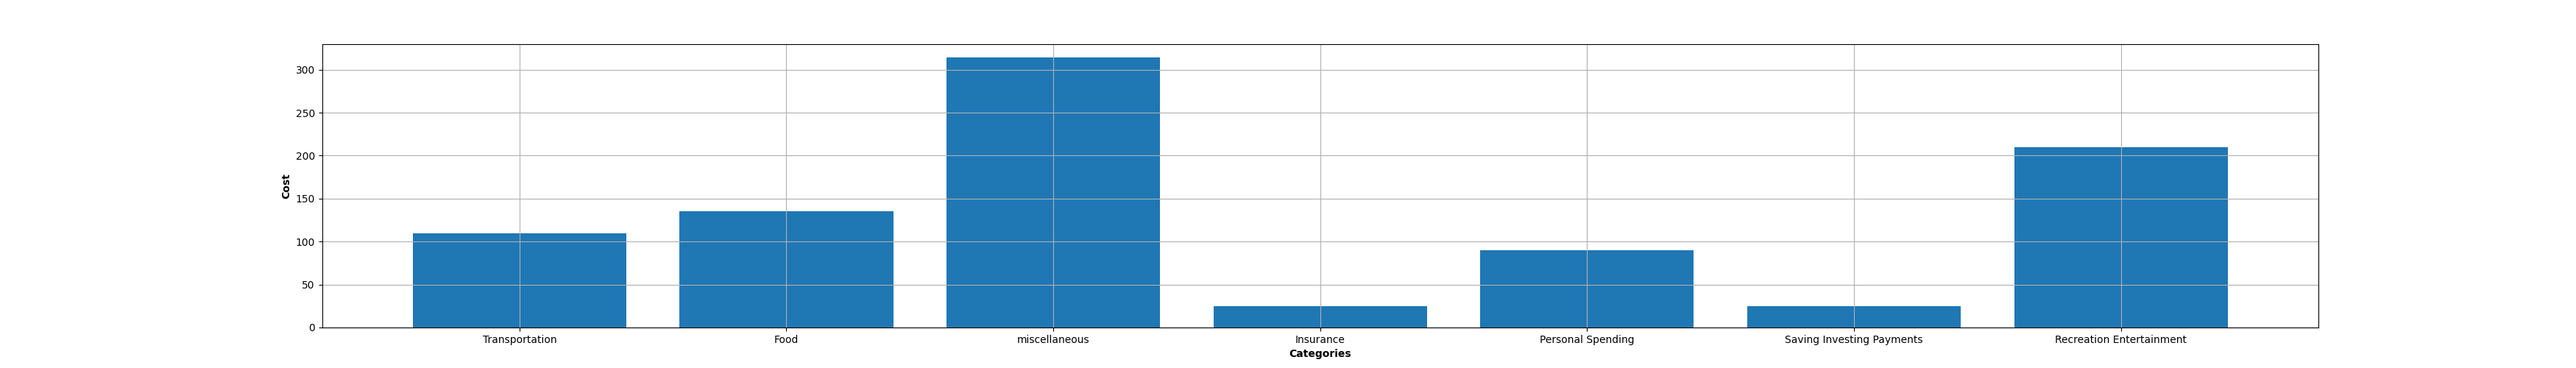
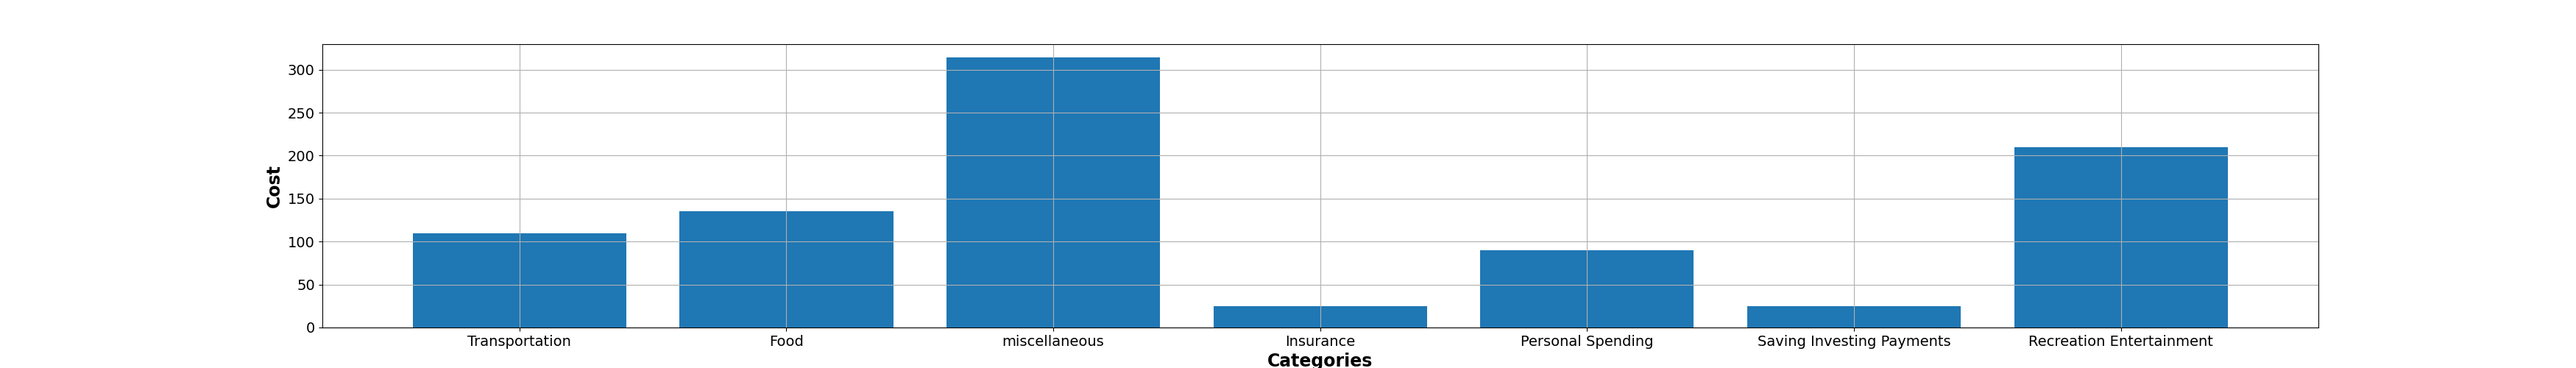
Third Commit

diff --git a/static/styles.css b/static/styles.css
@@ -111,9 +111,25 @@ nav .navbar-brand
         margin-bottom: 2px; 
         border: 2px solid grey;
     }
+
+    #graph{
+        margin: auto;
+        margin-left: -6%;
+        margin-top: 0%;
+        margin-bottom: 0%;
+        width: 110%;
+        height: 400px;
+    }
 }
 
 
 @media screen and (max-width: 1000px){
-
+    #graph{
+        margin: auto;
+        margin-left: -10%;
+        margin-top: 0%;
+        margin-bottom: 0%;
+        width: 120%;
+        height: 400px;
+    }
 }

diff --git a/templates/dashboard.html b/templates/dashboard.html
@@ -11,11 +11,11 @@
         </p>
     </head>
 
-    {{data}}
+    <img id="graph" src={{source}} alt="">
 
-    <img id="graph" style="margin-left: -10%; margin-right: -10%; margin-top:0%; width: 100%; height: 400px;" src={{source}} alt="">
+    <br><br>{{data}}
 
     <form method="post" action="/delete-user">
-        <input type="submit" name="delete" value="Delete Account">
+        <br><input type="submit" name="delete" value="Delete Account">
     </form>
 {% endblock %}

diff --git a/templates/home.html b/templates/home.html
@@ -1,0 +1,14 @@
+{% extends "layout.html" %}
+
+{% block title %}
+    Home
+{% endblock %}
+
+{% block main %}
+    <head id="titleHead">
+        <p id="titleDash">
+            <b><u>Welcome!</u></b>
+        </p>
+    </head>
+    
+{% endblock %}

diff --git a/app.py b/app.py
@@ -40,6 +40,13 @@ def after_request(response):
     return response
 
 
+@app.route("/", methods=["GET", "POST"])
+def index():
+    if request.method == "POST":
+        return
+    else:
+        return render_template("home.html")
+
 @app.route("/login", methods=["GET", "POST"])
 def login():
 
@@ -250,8 +257,9 @@ def dashboard():
             plt.figure(figsize = (20, 5))
 
         # Sets the labels:
-        plt.ylabel("Cost", fontweight='bold')
-        plt.xlabel("Categories", fontweight='bold')
+        plt.rcParams.update({'font.size': 14})
+        plt.ylabel("Cost", fontweight='bold', fontsize="17")
+        plt.xlabel("Categories", fontweight='bold', fontsize="17")
         plt.bar(categories, costs)
         plt.grid()
         plt.show()
